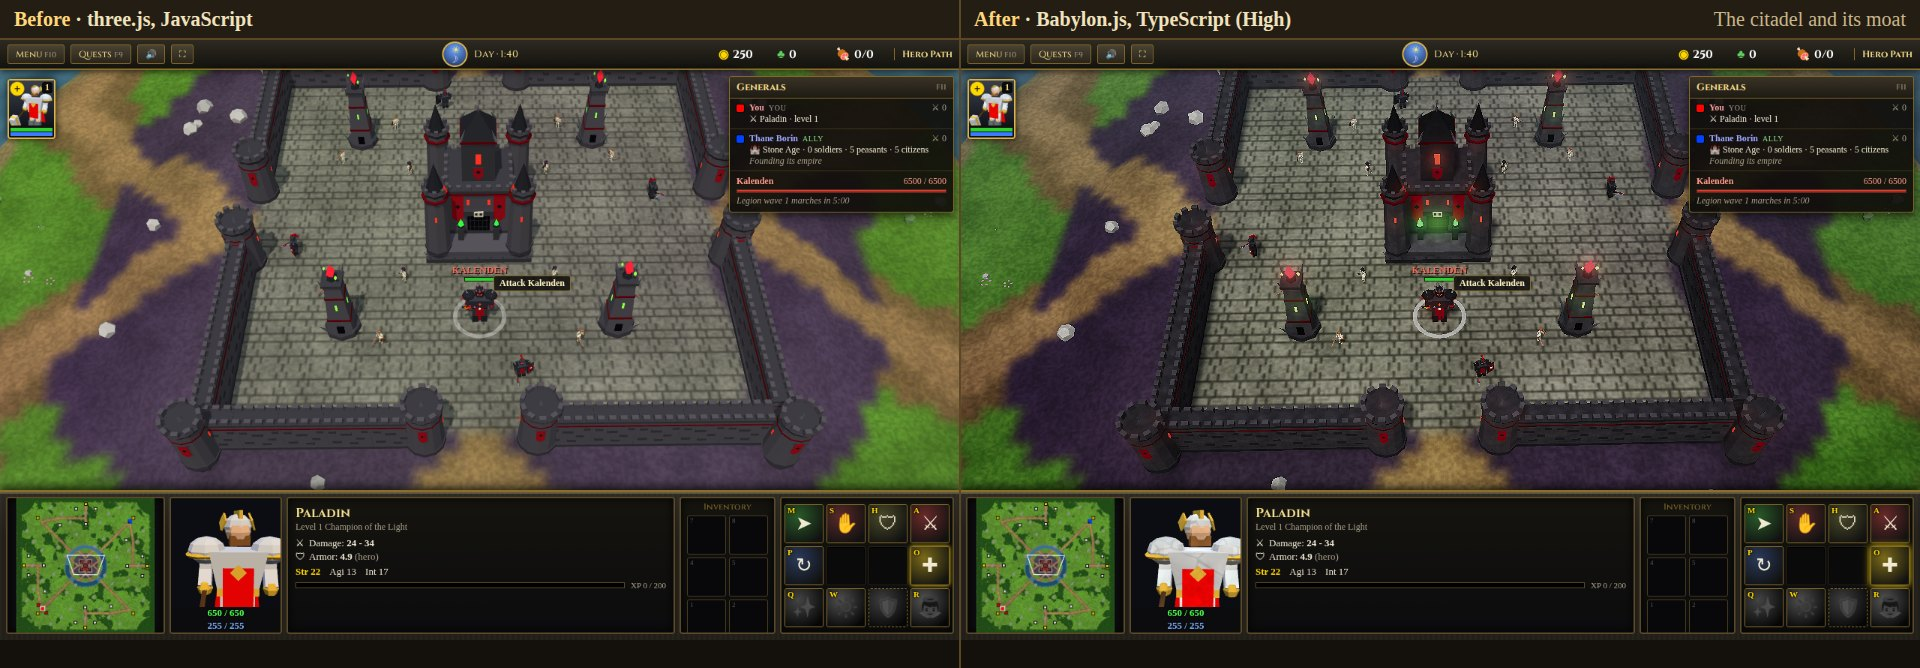
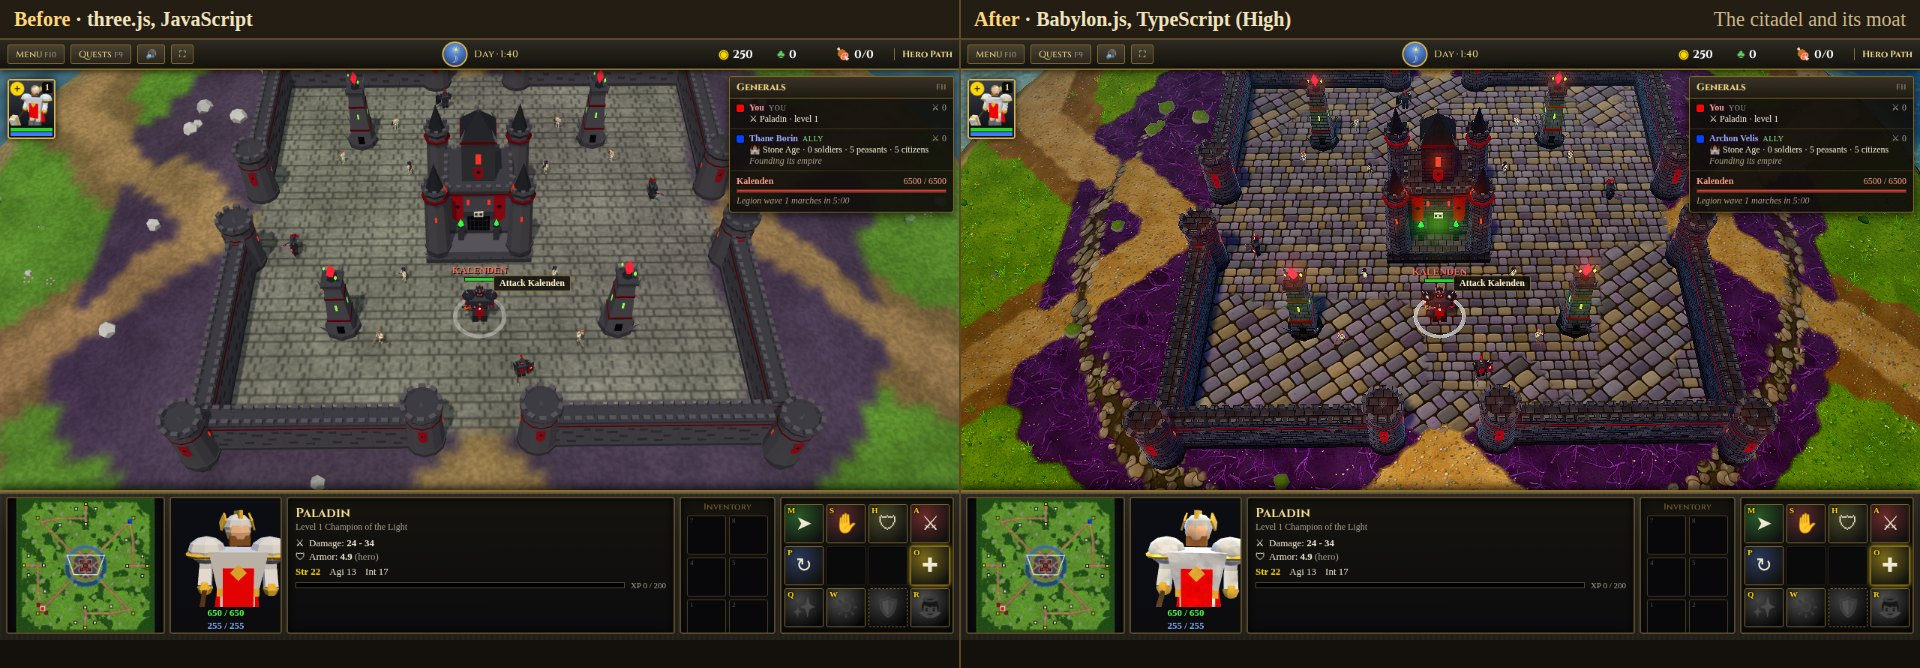
M13: document the Warcraft III art pass; new before/after images
- MIGRATION.md: M13 (added after review: M8 kept the original look under
  post-processing) with what changed, the checks (67/67 scenario checks,
  unchanged simulation hashes, draw calls and triangles, the GPU cost in
  software rendering) and what still needs real hardware.
- docs/migration/: three.js vs the M13 look, same eight scenes.

Claude-Session: https://claude.ai/code/session_01MpAysV9t2wat2ruJwVdggu

Changed region(s): [[0.5, 0.0898, 1.0, 0.8982], [0.9688, 0.0898, 1.0, 0.1198]]

diff --git a/MIGRATION.md b/MIGRATION.md
@@ -1,9 +1,11 @@
 # Migration plan: three.js → TypeScript + Babylon.js + Vite + Electron
 
-Status: **done.** All twelve milestones are complete (section 3). The game is strict TypeScript on
-Babylon.js, built with Vite and packaged with Electron; three.js is used only at build time, to bake
-the procedural models. One item couldn't be checked in this environment: running the installed game
-from the Windows `.exe` needs a Windows PC (D5).
+Status: **done.** All milestones are complete (section 3), including M13, the art pass added after
+review: M8's upgrade kept the original look under post-processing, and the result still looked like
+the three.js version. The game is strict TypeScript on Babylon.js, built with Vite and packaged with
+Electron; three.js is used only at build time, to bake the procedural models. One item couldn't be
+checked in this environment: running the installed game from the Windows `.exe` needs a Windows PC
+(D5).
 
 Branch: `babylon-migration`, created from `claude/heroes-empires-3d-game-gytx45` at `fbda849`. The
 original stays untouched on its own branch. The three.js version kept running alongside the port until
@@ -522,10 +524,35 @@ The three.js renderer kept working in parallel, behind `?renderer=three`, until 
     | Audio | M7 (spatial mix, voice limits, mute, music); the M12 synth equivalence check above. |
     | Tools | `tools/gallery.html` (three.js builders) and `tools/gallery-babylon.html` (baked models); `build-artifact.mjs`. |
 
-  - [x] Before and after screenshots: [`docs/migration/`](docs/migration/). Each image shows the three.js and JavaScript version (left) and the Babylon.js and TypeScript version on High (right), at the same camera position and hour.
+  - [x] Before and after screenshots: [`docs/migration/`](docs/migration/). Each image shows the three.js and JavaScript version (left) and the Babylon.js and TypeScript version on High (right), at the same camera position and hour. Since M13 the right-hand side shows the Warcraft III art pass.
     - [Home base](docs/migration/compare_home.jpg), [close-up](docs/migration/compare_closeup.jpg), [the citadel](docs/migration/compare_citadel.jpg) and [close](docs/migration/compare_citadelclose.jpg), [dusk](docs/migration/compare_dusk.jpg), [night](docs/migration/compare_night.jpg), [zoomed out](docs/migration/compare_zoomout.jpg) and [a 120-unit battle](docs/migration/compare_battle.jpg).
     - Rendered in software (SwiftShader). Both shots of each pair are taken from the same headless setup.
   - [x] `README.md`: TypeScript and Babylon.js throughout, the run and build commands, the code layout without `src/render/`, and the model builders under `tools/models/`.
+- [x] **M13 – Warcraft III art pass** (added after review). M8 added HDR, grading, shadows and a faint paint layer, but kept the original flat colours, faceted low-poly props and blurry ground, so the game looked the same as the three.js version. M13 replaces the art itself. Everything is still generated in code, and the simulation is untouched (its seeded hashes are unchanged).
+  - [x] Hand-painted ground (`GroundPaint.ts`, `GroundMaterial.ts`).
+    - Eight tileable 512 × 512 paintings made with Canvas 2D at load: Lordaeron grass (layered blades, tufts, a few flowers), forest floor with fallen leaves and needles, dirt with painted pebbles and cracks, rough road, flagstones for the citadel, wet shore with ripple marks, veined blight, cliff rock. Each has a height map. `tools/textures.html` previews them.
+    - A splat shader blends them from the simulation's ground types (one weight per map cell; steep banks turn to rock). Height blending gives the crisp, irregular borders of Warcraft III's tiles. A rotated second sample hides tiling, and a macro noise map varies brightness and warmth. Ground at the waterline is darker, as if wet.
+    - Replaces the 2048 px colour map and noise detail map (still painted, for the minimap).
+  - [x] Water: turquoise shallows to deep blue by the real depth, scrolling ripples with sky reflection and sun glints, painted caustic streaks, and foam lapping at the shore.
+  - [x] Foliage (`Foliage.ts`).
+    - Trees built from lumpy blob clusters with soft normals and vertex ambient occlusion: full broadleaf crowns on stout trunks, drooping five-tier pines, crooked blighted dead trees. Bushes, mossy boulders, and flower clumps.
+    - 32,688 grass tufts over the meadows. Trees, grass, bushes, boulders and flowers are batched per 32 × 32-cell chunk, so they're culled per batch.
+    - A foliage shader paints greyscale leaf, needle, bark and stone textures into warm sunlit and cool shaded colour, adds moss to the tops of stones, and sways canopies and grass in the wind. Grass and flowers sink away where buildings, gates or roads stand (a per-cell mask from the path grid and roads).
+    - Deep, saturated canopy colours instead of pale mint. Canopies cast shadows but don't receive them, so forests stay green.
+  - [x] Models (`MergedModel.ts`).
+    - Smooth normals with a 42° crease angle. The baked parts carried no normals, so every face had been lit flat; now round parts shade round and box edges stay crisp.
+    - Buildings get painted structure by surface kind: brick courses on stone, planks on wood, overlapping rows of straw on thatch, tiles on team-coloured roofs.
+    - Ground contact (models darken toward the terrain below them), a rim light in the sky's colour, and a painted sheen on metal and gold.
+    - Player-built roads use painted cobbles, tinted per age as before.
+  - [x] Low preset: no grass tufts or flowers, broadleaf crowns with fewer facets, one ground sample per layer instead of two, and plain model colours. The painted textures are made while the models load, before the first game.
+  - [x] Grading: Khronos PBR Neutral tone mapping instead of ACES (which greyed out bold colours), saturated warm days, and warm-light / cool-shade shading in the lighting plugin. Night keeps the blue moonlight.
+  - [x] Checks:
+    - `npm run typecheck` and the builds pass. The seeded headless runs give the same world hashes, since the simulation wasn't touched.
+    - The 67 scenario checks pass.
+    - Opening view, software rendered: High draws 1.27M triangles in 255 draw calls, Low 0.70M in 64 (M12: 228 and 53 draw calls).
+    - The 120-unit benchmark on High: 658–674 draw calls (595–611 before M13).
+    - CPU-side frame time is unchanged. The extra cost is GPU work: in this environment's software renderer, the opening view runs at about 1.7 fps on Low against M12's 3.3, and at 0.38 fps on High against 0.52. That is 1.4–1.9× the rasterization for a much richer scene. A graphics card absorbs this easily, and the first-run quality check still steps slow machines down to Medium or Low. **Real-GPU frame rates still need checking on real hardware**, as for M9.
+  - Screenshots: [`docs/migration/`](docs/migration/) now compares the three.js version with the M13 look; the M12 images, which looked almost the same as the three.js version, were replaced. The battle shot fast-forwards until the armies meet, since software rendering on High draws about one frame per second.
 
 ---
 
